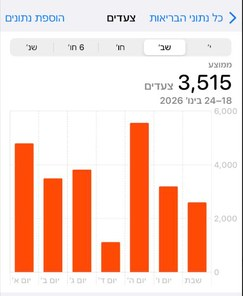
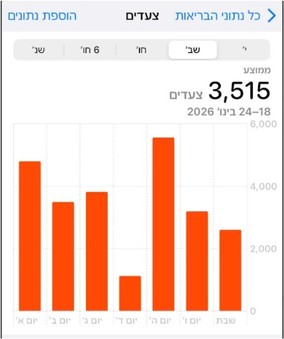
v4.52: use the screenshots with the red markings burned in
The copies pulled out of the PDF were clean: the circles live as a design
layer above the screenshot, not inside the image file. Ron's exports have
them burned in. All five trimmed of their white margin.

Claude-Session: https://claude.ai/code/session_01TRTo129JTCWKBCYi2LTkok

diff --git a/src/App.jsx b/src/App.jsx
@@ -465,7 +465,7 @@ const C = {
   water: "#7E8DD6", waterBg: "#EBEDF8",
 };
 const fontStack = "'Rubik', system-ui, sans-serif";
-const VERSION = "4.51";
+const VERSION = "4.52";
 const STORAGE_KEY = "myprime_demo_state_v1";
 
 /* ============================================================

diff --git a/CLAUDE.md b/CLAUDE.md
@@ -2,7 +2,7 @@
 
 הקובץ הזה נטען אוטומטית בכל סשן. **קרא אותו במלואו לפני כל פעולה.**
 
-**גרסה נוכחית: v4.51** · עודכן: 10 באוגוסט 2026
+**גרסה נוכחית: v4.52** · עודכן: 10 באוגוסט 2026
 בכל שחרור: עדכן את `VERSION` ב-`src/App.jsx` **וגם** את המספר כאן.
 
 ---
@@ -671,6 +671,8 @@ Google תומכת ב-PWA דרך **TWA (Trusted Web Activity)**, נארז עם Bu
 ---
 
 ## 17. יומן שינויים אחרון
+
+**v4.52** - חמשת צילומי המסך של הנחיות הצעדים הוחלפו בגרסאות של רון, שבהן העיגולים האדומים צרובים בתוך התמונה. **הגרסאות שחולצו מה-PDF היו נקיות מסימונים**, כי הסימון יושב בעיצוב כשכבה נפרדת מעל הצילום ולא בתוך קובץ התמונה. כל תמונה נחתכה מהשוליים הלבנים סביבה.
 
 **v4.51** - הדגשת המשפט "זה המספר הדרוש לעדכון במעקב" בשתי מערכות ההפעלה. לשם כך הורחב מנגנון הטקסט של ההנחיות: קודם הוא ידע להדגיש רק את תחילת המשפט, ועכשיו אפשר להדגיש גם באמצע או בסוף על ידי רשימת חלקים.
 
